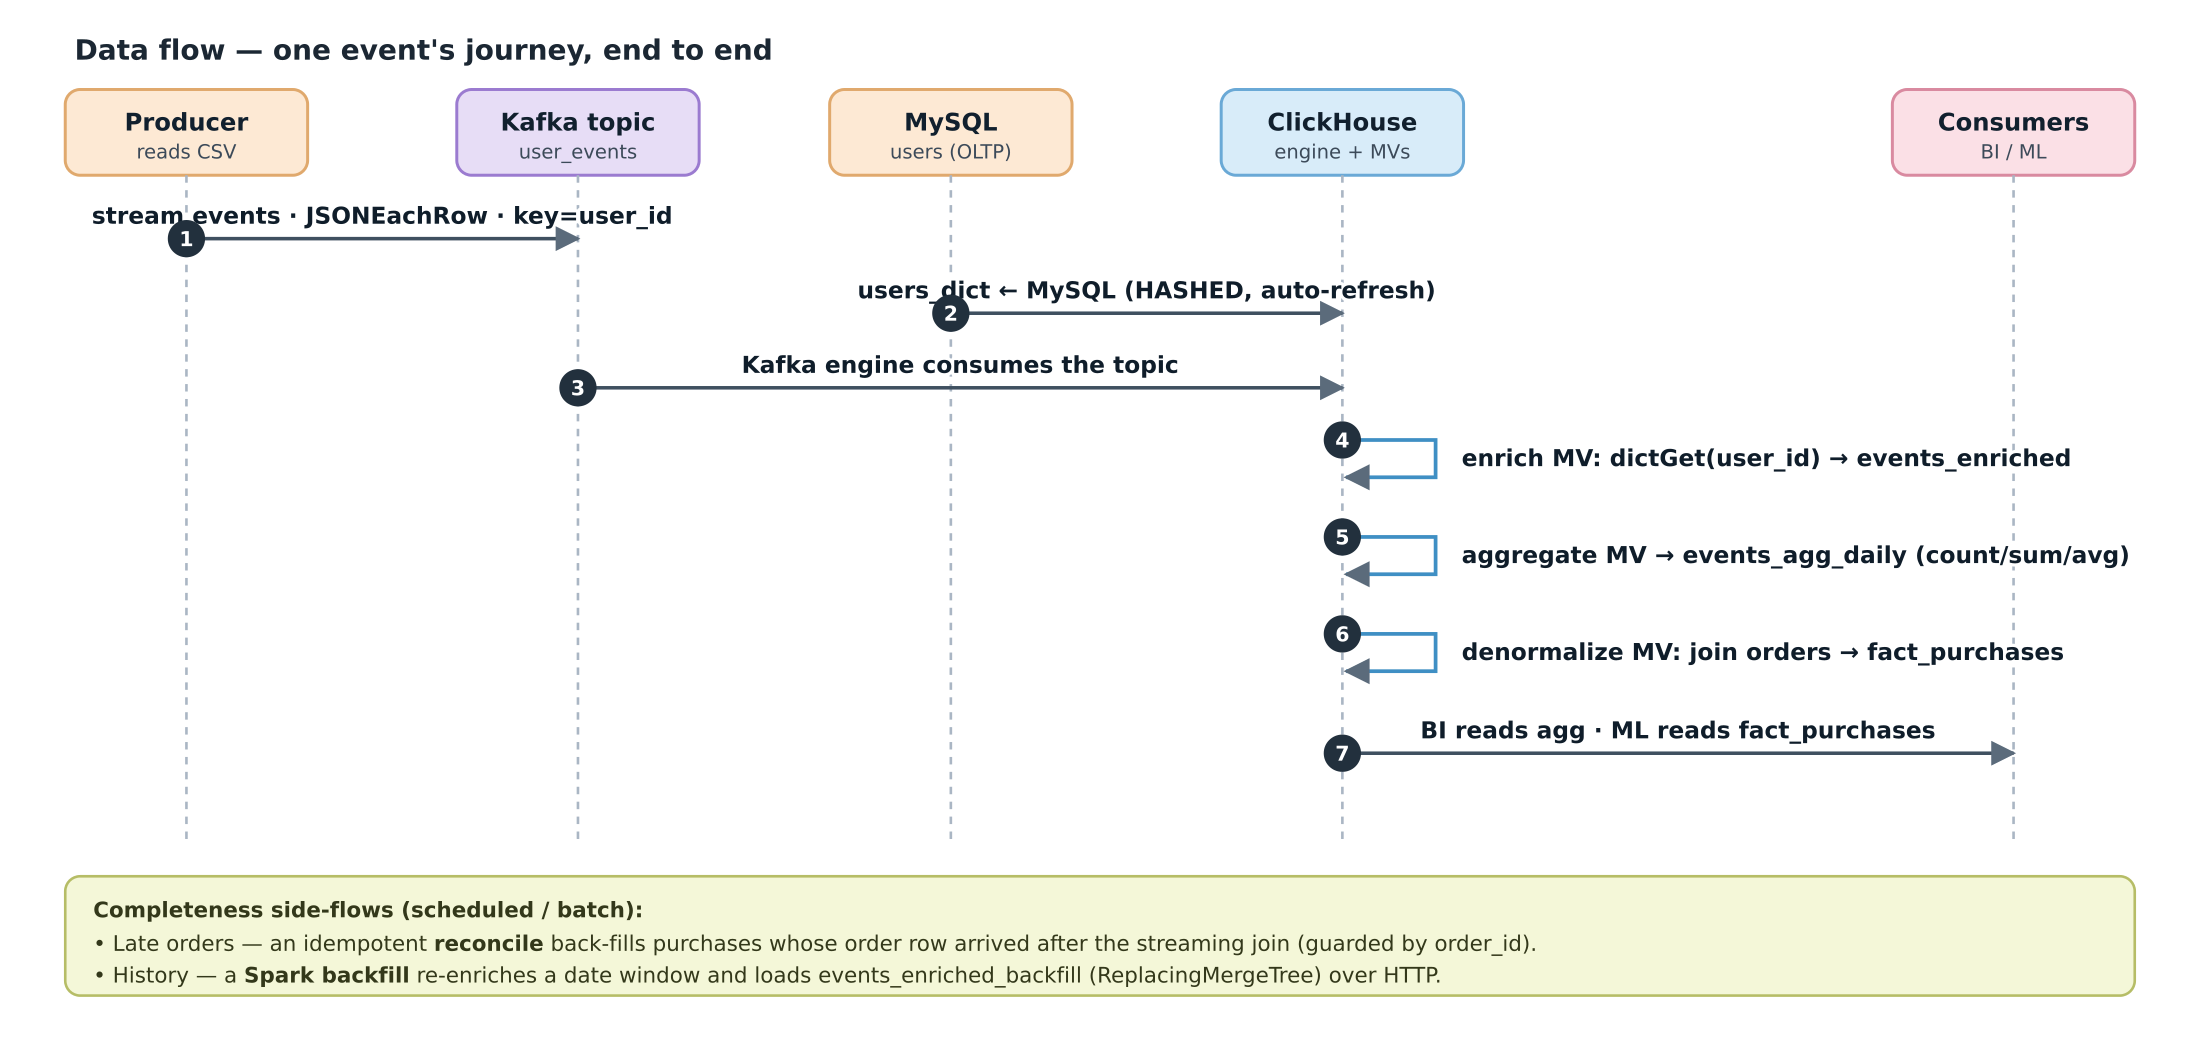
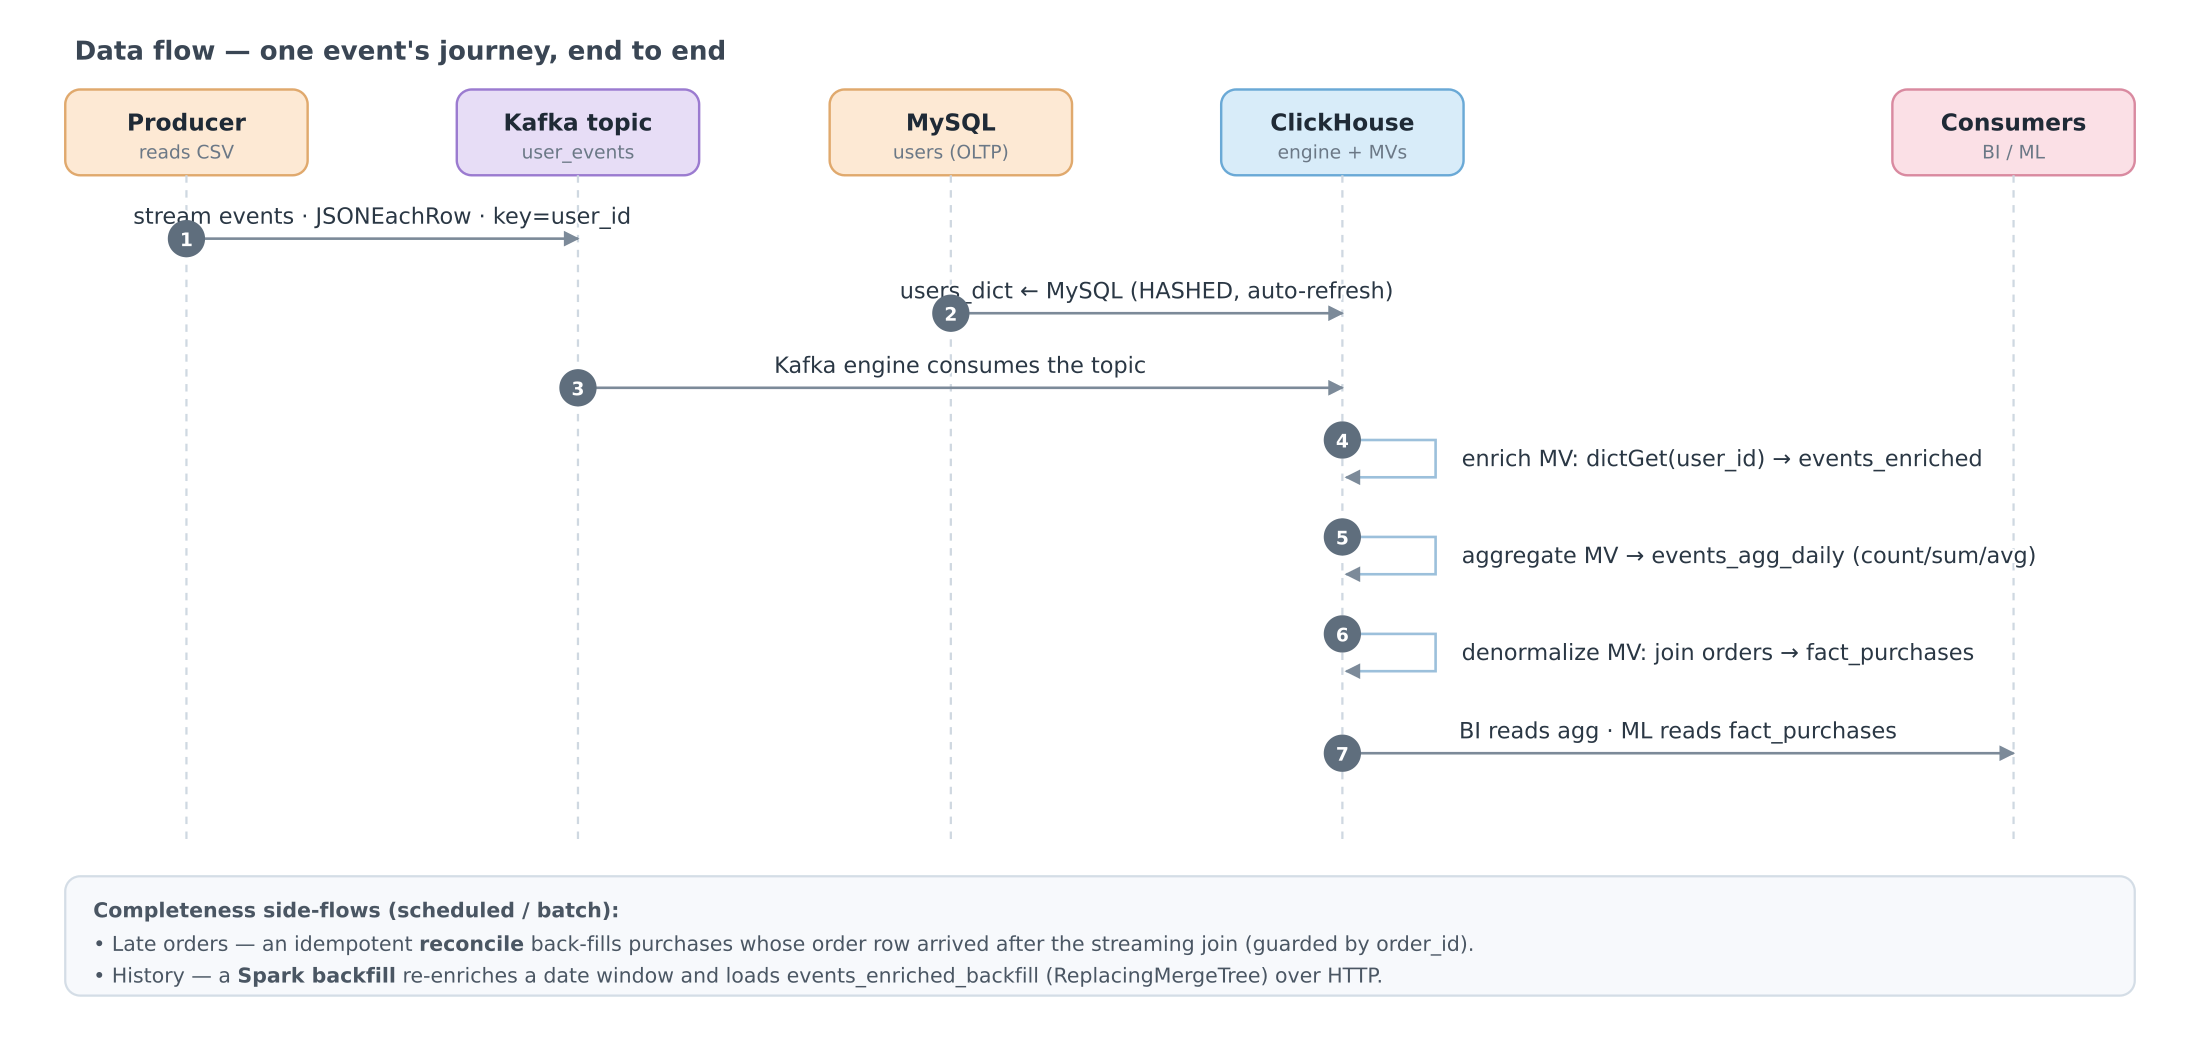
Standardize the data-flow diagram styling; embed it in the README
Lighter, conventional sequence-diagram look (thin arrows, normal-weight labels
with a subtle halo, neutral note box) instead of the heavy bold version. Embed
dataflow.png alongside the topology image in README §3.

diff --git a/README.md b/README.md
@@ -126,15 +126,19 @@ python -m azki apply-gov
 
 ## 3. System design
 
-![Azki pipeline system design](docs/architecture.png)
+**Topology** — the components and how they connect. The numbered steps ①–⑤ match
+the five steps in [§2](#2-the-big-picture-in-plain-terms):
 
-The numbered steps ①–⑤ above match the five steps in [§2](#2-the-big-picture-in-plain-terms).
-If the image doesn't render in your Markdown viewer, open it directly:
-[`docs/architecture.png`](docs/architecture.png) (or the vector source
-[`docs/architecture.svg`](docs/architecture.svg)). For a step-by-step view of how
-data moves through the pipeline, see the data-flow diagram
-[`docs/dataflow.png`](docs/dataflow.png) (detailed in
-[`docs/architecture.md`](docs/architecture.md)).
+![Azki pipeline topology](docs/architecture.png)
+
+**Data flow** — how a single event travels through the pipeline, plus the
+late-order reconcile and Spark backfill side-flows:
+
+![Azki pipeline data flow](docs/dataflow.png)
+
+If the images don't render in your Markdown viewer, open them directly under
+[`docs/`](docs/) (`architecture.png` / `dataflow.png`, with `.svg` vector
+sources); both are also embedded in [`docs/architecture.md`](docs/architecture.md).
 
 <details>
 <summary>Same diagram as Mermaid source (renders on GitHub)</summary>